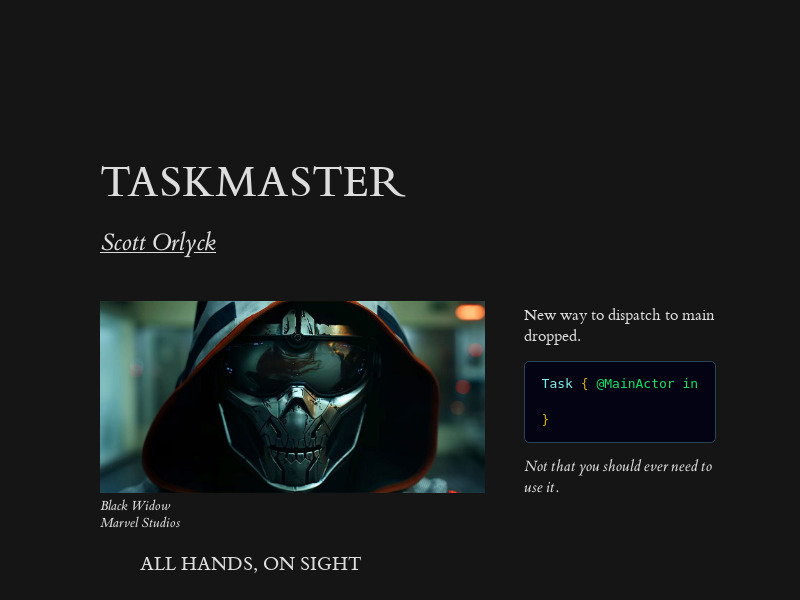
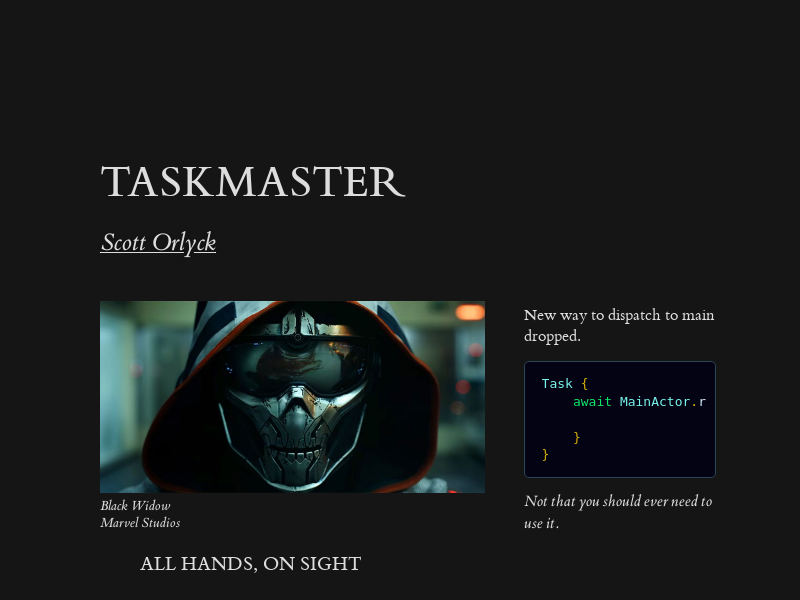
Render and commit.

Changed region(s): [[0.6562, 0.72, 0.9062, 0.84], [0.7188, 0.63, 0.875, 0.69], [0.6562, 0.87, 0.6875, 0.9]]

diff --git a/docs/assets/index.b061f167.css b/docs/assets/index.b061f167.css
@@ -1,0 +1,1 @@
+@font-face{font-display:swap;font-family:BemboBook;font-style:normal;font-weight:400;src:url(/taskmaster/bembo/BemboBook/font.woff2)}@font-face{font-display:swap;font-family:BemboBook;font-style:italic;font-weight:400;src:url(/taskmaster/bembo/BemboBookItalic/font.woff2)}@font-face{font-display:swap;font-family:BemboBook;font-style:normal;font-weight:700;src:url(/taskmaster/bembo/BemboBookBold/font.woff2)}@font-face{font-display:swap;font-family:BemboBookOsF;font-style:normal;font-weight:400;src:url(/taskmaster/bembo/BemboBookItalicOsF/font.woff2)}html{font-size:15px}body{background-color:#fffff8;color:#111;counter-reset:sidenote-counter;font-family:BemboBook,Palatino,Palatino Linotype,Palatino LT STD,Book Antiqua,Georgia,serif;margin-left:auto;margin-right:auto;max-width:1400px;padding-left:12.5%;width:87.5%}@media (color-index:48){body{background-color:#151515;color:#ddd}}@media (color:48842621){body{background-color:#151515;color:#ddd}}@media (prefers-color-scheme:dark){body{background-color:#151515;color:#ddd}}h1{font-size:3.2rem;font-weight:400;line-height:1;margin-bottom:1.5rem;margin-top:4rem}h2{font-size:2.2rem;margin-top:2.1rem}h2,h3{font-style:italic;font-weight:400;line-height:1;margin-bottom:1.4rem}h3{font-size:1.7rem;margin-top:2rem}hr{border:0;border-top:1px solid #ccc;display:block;height:1px;margin:1em 0;padding:0;width:55%}p.subtitle{display:block;font-size:1.8rem;font-style:italic;line-height:1;margin-bottom:1rem;margin-top:1rem}.numeral{font-family:BemboBookOsF}.danger{color:red}article{padding:5rem 0}section{padding-bottom:1rem;padding-top:1rem}dl,ol,p,ul{font-size:1.4rem;line-height:2rem}p{margin-bottom:1.4rem;margin-top:1.4rem;padding-right:0;vertical-align:baseline}div.epigraph{margin:5em 0}div.epigraph>blockquote{margin-bottom:3em;margin-top:3em}div.epigraph>blockquote,div.epigraph>blockquote>p{font-style:italic}div.epigraph>blockquote>footer{font-style:normal}div.epigraph>blockquote>footer>cite{font-style:italic}blockquote{font-size:1.4rem}blockquote p{margin-right:40px;width:55%}blockquote footer{font-size:1.1rem;text-align:right;width:55%}section>footer,section>p,section>table{width:55%}section>dl,section>ol,section>ul{-webkit-padding-start:5%;width:50%}dt:not(:first-child),li:not(:first-child){margin-top:.25rem}figure{-webkit-margin-start:0;-webkit-margin-end:0;border:0;font-size:100%;font:inherit;margin:0 0 3em;max-width:55%;padding:0}figcaption,figure{vertical-align:baseline}figcaption{clear:right;float:right;font-size:1.1rem;line-height:1.6;margin-bottom:0;margin-top:0;max-width:40%;position:relative}figure.fullwidth figcaption{margin-right:24%}a:link,a:visited{color:inherit}.no-tufte-underline:link{background:transparent none repeat 0 0/auto auto padding-box border-box scroll;background:initial;text-shadow:inherit}.hover-tufte-underline:hover,.tufte-underline,a:link{background:linear-gradient(#fffff8,#fffff8),linear-gradient(#fffff8,#fffff8),linear-gradient(currentColor,currentColor);background-position:0 93%,100% 93%,0 93%;background-repeat:no-repeat,no-repeat,repeat-x;background-size:.05em 1px,.05em 1px,1px 1px;text-decoration:none;text-shadow:.03em 0 #fffff8,-.03em 0 #fffff8,0 .03em #fffff8,0 -.03em #fffff8,.06em 0 #fffff8,-.06em 0 #fffff8,.09em 0 #fffff8,-.09em 0 #fffff8,.12em 0 #fffff8,-.12em 0 #fffff8,.15em 0 #fffff8,-.15em 0 #fffff8}@media screen and (-webkit-min-device-pixel-ratio:0){.hover-tufte-underline:hover,.tufte-underline,a:link{background-position-y:87%,87%,87%}}@media (color-index:48){.hover-tufte-underline:hover,.tufte-underline,a:link{text-shadow:.03em 0 #151515,-.03em 0 #151515,0 .03em #151515,0 -.03em #151515,.06em 0 #151515,-.06em 0 #151515,.09em 0 #151515,-.09em 0 #151515,.12em 0 #151515,-.12em 0 #151515,.15em 0 #151515,-.15em 0 #151515}}@media (color:48842621){.hover-tufte-underline:hover,.tufte-underline,a:link{text-shadow:.03em 0 #151515,-.03em 0 #151515,0 .03em #151515,0 -.03em #151515,.06em 0 #151515,-.06em 0 #151515,.09em 0 #151515,-.09em 0 #151515,.12em 0 #151515,-.12em 0 #151515,.15em 0 #151515,-.15em 0 #151515}}@media (prefers-color-scheme:dark){.hover-tufte-underline:hover,.tufte-underline,a:link{text-shadow:.03em 0 #151515,-.03em 0 #151515,0 .03em #151515,0 -.03em #151515,.06em 0 #151515,-.06em 0 #151515,.09em 0 #151515,-.09em 0 #151515,.12em 0 #151515,-.12em 0 #151515,.15em 0 #151515,-.15em 0 #151515}}a:link::-moz-selection{background:#b4d5fe;text-shadow:.03em 0 #b4d5fe,-.03em 0 #b4d5fe,0 .03em #b4d5fe,0 -.03em #b4d5fe,.06em 0 #b4d5fe,-.06em 0 #b4d5fe,.09em 0 #b4d5fe,-.09em 0 #b4d5fe,.12em 0 #b4d5fe,-.12em 0 #b4d5fe,.15em 0 #b4d5fe,-.15em 0 #b4d5fe}a:link::-moz-selection,a:link::selection{background:#b4d5fe;text-shadow:.03em 0 #b4d5fe,-.03em 0 #b4d5fe,0 .03em #b4d5fe,0 -.03em #b4d5fe,.06em 0 #b4d5fe,-.06em 0 #b4d5fe,.09em 0 #b4d5fe,-.09em 0 #b4d5fe,.12em 0 #b4d5fe,-.12em 0 #b4d5fe,.15em 0 #b4d5fe,-.15em 0 #b4d5fe}img{max-width:100%}.marginnote,.sidenote{clear:right;float:right;font-size:1.1rem;line-height:1.3;margin-bottom:0;margin-right:-60%;margin-top:.3rem;position:relative;vertical-align:baseline;width:50%}.sidenote-number{counter-increment:sidenote-counter}.sidenote-number:after,.sidenote:before{font-family:BemboBookOsF;position:relative;vertical-align:baseline}.sidenote-number:after{content:counter(sidenote-counter);font-size:1rem;left:.1rem;top:-.5rem}.sidenote:before{content:counter(sidenote-counter) " ";font-size:1rem;top:-.5rem}blockquote .marginnote,blockquote .sidenote{margin-right:-82%;min-width:59%;text-align:left}div.fullwidth,table.fullwidth{width:100%}div.table-wrapper{font-family:Trebuchet MS,Gill Sans,Gill Sans MT,sans-serif;overflow-x:auto}.sans{font-family:Gill Sans,Gill Sans MT,Calibri,sans-serif;letter-spacing:.03em}code,pre>code{-webkit-text-size-adjust:100%;font-family:Consolas,Liberation Mono,Menlo,Courier,monospace;font-size:1rem;line-height:1.42}.sans>code{font-size:1.2rem}h1>code,h2>code,h3>code{font-size:.8em}.marginnote>code,.sidenote>code{font-size:1rem}pre>code{display:block;font-size:.9rem;margin-left:2.5%;overflow-x:auto;width:52.5%}pre.fullwidth>code{width:90%}.fullwidth{clear:both;max-width:90%}span.newthought{-webkit-font-feature-settings:"smcp";font-feature-settings:"smcp";font-size:1.2em;font-variant:small-caps}input.margin-toggle{display:none}label.sidenote-number{display:inline-block;max-height:2rem}label.margin-toggle:not(.sidenote-number){display:none}.iframe-wrapper{height:0;padding-bottom:56.25%;padding-top:25px;position:relative}.iframe-wrapper iframe{height:100%;left:0;position:absolute;top:0;width:100%}@media (max-width:760px){body{padding-left:8%;padding-right:8%;width:84%}hr,section>footer,section>p,section>table{width:100%}pre>code{width:97%}section>dl,section>ol,section>ul{width:90%}figure{max-width:90%}figcaption,figure.fullwidth figcaption{margin-right:0;max-width:none}blockquote{margin-left:1.5em;margin-right:0}blockquote footer,blockquote p{width:100%}label.margin-toggle:not(.sidenote-number){display:inline}.marginnote,.sidenote{display:none}.margin-toggle:checked+.marginnote,.margin-toggle:checked+.sidenote{clear:both;display:block;float:left;left:1rem;margin:1rem 2.5%;position:relative;vertical-align:baseline;width:95%}label{cursor:pointer}div.table-wrapper,table{width:85%}img{width:100%}}pre[data-line]{padding:1em 0 1em 3em;position:relative}.line-highlight{background:hsla(24,20%,50%,.08);background:linear-gradient(90deg,hsla(24,20%,50%,.1) 70%,hsla(24,20%,50%,0));left:0;line-height:inherit;margin-top:1em;padding-bottom:inherit;padding-left:0;padding-right:0;padding-top:inherit;pointer-events:none;position:absolute;right:0;white-space:pre}@media print{.line-highlight{color-adjust:exact;-webkit-print-color-adjust:exact}}.line-highlight:before,.line-highlight[data-end]:after{background-color:#997a6666;border-radius:999px;box-shadow:0 1px #fff;color:#f5f2f0;content:attr(data-start);font:700 65%/1.5 sans-serif;left:.6em;min-width:1em;padding:0 .5em;position:absolute;text-align:center;text-shadow:none;top:.4em;vertical-align:.3em}.line-highlight[data-end]:after{bottom:.4em;content:attr(data-end);top:auto}.line-numbers .line-highlight:after,.line-numbers .line-highlight:before{content:none}pre[id].linkable-line-numbers span.line-numbers-rows{pointer-events:all}pre[id].linkable-line-numbers span.line-numbers-rows>span:before{cursor:pointer}pre[id].linkable-line-numbers span.line-numbers-rows>span:hover:before{background-color:#80808033}@media screen{code[class*=language-],pre[class*=language-]{background:#faf8f5;color:#728fcb;direction:ltr;font-family:Consolas,Menlo,Monaco,Andale Mono WT,Andale Mono,Lucida Console,Lucida Sans Typewriter,DejaVu Sans Mono,Bitstream Vera Sans Mono,Liberation Mono,Nimbus Mono L,Courier New,Courier,monospace;font-size:13px;-webkit-hyphens:none;-ms-hyphens:none;hyphens:none;line-height:1.375;-moz-tab-size:4;-o-tab-size:4;tab-size:4;text-align:left;white-space:pre;word-break:normal;word-spacing:normal}code[class*=language-] ::-moz-selection,code[class*=language-]::-moz-selection,pre[class*=language-] ::-moz-selection,pre[class*=language-]::-moz-selection{background:#faf8f5;text-shadow:none}code[class*=language-] ::selection,code[class*=language-]::selection,pre[class*=language-] ::selection,pre[class*=language-]::selection{background:#faf8f5;text-shadow:none}pre[class*=language-]{margin:.5em 0;overflow:auto;padding:1em}:not(pre)>code[class*=language-]{border-radius:.3em;padding:.1em}.token.cdata,.token.comment,.token.doctype,.token.prolog,.token.punctuation{color:#b6ad9a}.token.namespace{opacity:.7}.token.number,.token.operator,.token.tag{color:#063289}.token.function,.token.property{color:#b29762}.token.atrule-id,.token.selector,.token.tag-id{color:#2d2006}.token.attr-name,code.language-javascript{color:#896724}.language-css .token.string,.language-scss .token.string,.style .token.string,.token.atrule,.token.attr-value,.token.boolean,.token.control,.token.directive,.token.entity,.token.keyword,.token.regex,.token.statement,.token.string,.token.unit,.token.url,code.language-css,code.language-scss{color:#728fcb}.token.placeholder,.token.variable{color:#93abdc}.token.deleted{text-decoration:line-through}.token.inserted{border-bottom:1px dotted #2d2006;text-decoration:none}.token.italic{font-style:italic}.token.bold,.token.important{font-weight:700}.token.important{color:#896724}.token.entity{cursor:help}pre>code.highlight{outline:.4em solid #896724;outline-offset:.4em}.line-numbers.line-numbers .line-numbers-rows{border-right-color:#ece8de}.line-numbers .line-numbers-rows>span:before{color:#cdc4b1}.line-highlight.line-highlight{background:rgba(45,32,6,.2);background:linear-gradient(90deg,rgba(45,32,6,.2) 70%,rgba(45,32,6,0))}}@media screen and (color-index:48){code[class*=language-],pre[class*=language-]{background:#030314;color:#d6e7ff;direction:ltr;font-family:Consolas,Menlo,Monaco,Andale Mono WT,Andale Mono,Lucida Console,Lucida Sans Typewriter,DejaVu Sans Mono,Bitstream Vera Sans Mono,Liberation Mono,Nimbus Mono L,Courier New,Courier,monospace;font-size:13px;-webkit-hyphens:none;-ms-hyphens:none;hyphens:none;line-height:1.375;-moz-tab-size:4;-o-tab-size:4;tab-size:4;text-align:left;white-space:pre;word-break:normal;word-spacing:normal}code[class*=language-] ::-moz-selection,code[class*=language-]::-moz-selection,pre[class*=language-] ::-moz-selection,pre[class*=language-]::-moz-selection{background:#1d3b54;color:inherit;text-shadow:none}code[class*=language-] ::-moz-selection,code[class*=language-] ::selection,code[class*=language-]::-moz-selection,code[class*=language-]::selection,pre[class*=language-] ::-moz-selection,pre[class*=language-] ::selection,pre[class*=language-]::-moz-selection,pre[class*=language-]::selection{background:#1d3b54;color:inherit;text-shadow:none}pre[class*=language-]{border:1px solid #2a4555;border-radius:5px;margin:1em 0;overflow:auto}:not(pre)>code[class*=language-]{background:#2a4555;border-radius:.2em;-webkit-box-decoration-break:clone;box-decoration-break:clone;color:#f0f6f6;padding:.2em .3em}.token.cdata,.token.comment,.token.doctype,.token.prolog{color:#446e69}.token.punctuation{color:#d6b007}.token.boolean,.token.constant,.token.deleted,.token.number,.token.property,.token.symbol,.token.tag{color:#d6e7ff}.token.attr-name,.token.builtin,.token.inserted,.token.selector{color:#e60067}.token.char,.token.string{color:#49c6ec}.language-css .token.string,.style .token.string,.token.entity,.token.operator,.token.url{background:transparent;color:#ec8e01}.token.atrule,.token.attr-value,.token.keyword{color:#0fe468}.token.class-name,.token.function{color:#78f3e9}.token.important,.token.regex,.token.variable{color:#d6e7ff}}@media screen and (color:48842621){code[class*=language-],pre[class*=language-]{background:#030314;color:#d6e7ff;direction:ltr;font-family:Consolas,Menlo,Monaco,Andale Mono WT,Andale Mono,Lucida Console,Lucida Sans Typewriter,DejaVu Sans Mono,Bitstream Vera Sans Mono,Liberation Mono,Nimbus Mono L,Courier New,Courier,monospace;font-size:13px;-webkit-hyphens:none;-ms-hyphens:none;hyphens:none;line-height:1.375;-moz-tab-size:4;-o-tab-size:4;tab-size:4;text-align:left;white-space:pre;word-break:normal;word-spacing:normal}code[class*=language-] ::-moz-selection,code[class*=language-]::-moz-selection,pre[class*=language-] ::-moz-selection,pre[class*=language-]::-moz-selection{background:#1d3b54;color:inherit;text-shadow:none}code[class*=language-] ::-moz-selection,code[class*=language-] ::selection,code[class*=language-]::-moz-selection,code[class*=language-]::selection,pre[class*=language-] ::-moz-selection,pre[class*=language-] ::selection,pre[class*=language-]::-moz-selection,pre[class*=language-]::selection{background:#1d3b54;color:inherit;text-shadow:none}pre[class*=language-]{border:1px solid #2a4555;border-radius:5px;margin:1em 0;overflow:auto}:not(pre)>code[class*=language-]{background:#2a4555;border-radius:.2em;-webkit-box-decoration-break:clone;box-decoration-break:clone;color:#f0f6f6;padding:.2em .3em}.token.cdata,.token.comment,.token.doctype,.token.prolog{color:#446e69}.token.punctuation{color:#d6b007}.token.boolean,.token.constant,.token.deleted,.token.number,.token.property,.token.symbol,.token.tag{color:#d6e7ff}.token.attr-name,.token.builtin,.token.inserted,.token.selector{color:#e60067}.token.char,.token.string{color:#49c6ec}.language-css .token.string,.style .token.string,.token.entity,.token.operator,.token.url{background:transparent;color:#ec8e01}.token.atrule,.token.attr-value,.token.keyword{color:#0fe468}.token.class-name,.token.function{color:#78f3e9}.token.important,.token.regex,.token.variable{color:#d6e7ff}}@media screen and (prefers-color-scheme:dark){code[class*=language-],pre[class*=language-]{background:#030314;color:#d6e7ff;direction:ltr;font-family:Consolas,Menlo,Monaco,Andale Mono WT,Andale Mono,Lucida Console,Lucida Sans Typewriter,DejaVu Sans Mono,Bitstream Vera Sans Mono,Liberation Mono,Nimbus Mono L,Courier New,Courier,monospace;font-size:13px;-webkit-hyphens:none;-ms-hyphens:none;hyphens:none;line-height:1.375;-moz-tab-size:4;-o-tab-size:4;tab-size:4;text-align:left;white-space:pre;word-break:normal;word-spacing:normal}code[class*=language-] ::-moz-selection,code[class*=language-]::-moz-selection,pre[class*=language-] ::-moz-selection,pre[class*=language-]::-moz-selection{background:#1d3b54;color:inherit;text-shadow:none}code[class*=language-] ::-moz-selection,code[class*=language-] ::selection,code[class*=language-]::-moz-selection,code[class*=language-]::selection,pre[class*=language-] ::-moz-selection,pre[class*=language-] ::selection,pre[class*=language-]::-moz-selection,pre[class*=language-]::selection{background:#1d3b54;color:inherit;text-shadow:none}pre[class*=language-]{border:1px solid #2a4555;border-radius:5px;margin:1em 0;overflow:auto}:not(pre)>code[class*=language-]{background:#2a4555;border-radius:.2em;-webkit-box-decoration-break:clone;box-decoration-break:clone;color:#f0f6f6;padding:.2em .3em}.token.cdata,.token.comment,.token.doctype,.token.prolog{color:#446e69}.token.punctuation{color:#d6b007}.token.boolean,.token.constant,.token.deleted,.token.number,.token.property,.token.symbol,.token.tag{color:#d6e7ff}.token.attr-name,.token.builtin,.token.inserted,.token.selector{color:#e60067}.token.char,.token.string{color:#49c6ec}.language-css .token.string,.style .token.string,.token.entity,.token.operator,.token.url{background:transparent;color:#ec8e01}.token.atrule,.token.attr-value,.token.keyword{color:#0fe468}.token.class-name,.token.function{color:#78f3e9}.token.important,.token.regex,.token.variable{color:#d6e7ff}}.code{width:100%}pre[class*=language-]{overflow:hidden}.line-highlight:before,.line-highlight[data-end]:after{box-shadow:none}.small{font-size:.875rem;line-height:1.25rem}@media (max-width:760px){.small{width:100%}}@media (color-index:70){.line-highlight.line-highlight{background:rgba(45,32,6,.2);background:linear-gradient(90deg,rgba(45,32,6,.05) 70%,rgba(45,32,6,0))}}@media (color:70318723){.line-highlight.line-highlight{background:rgba(45,32,6,.2);background:linear-gradient(90deg,rgba(45,32,6,.05) 70%,rgba(45,32,6,0))}}@media (prefers-color-scheme:light){.line-highlight.line-highlight{background:rgba(45,32,6,.2);background:linear-gradient(90deg,rgba(45,32,6,.05) 70%,rgba(45,32,6,0))}}

diff --git a/docs/index.html b/docs/index.html
@@ -2,13 +2,14 @@
         <meta name="viewport" content="width=device-width,initial-scale=1">
         <meta charset="utf-8">
       
-      
-      <link rel="stylesheet" href="/taskmaster/assets/index.3020368f.css">
+      <link rel="stylesheet" href="/taskmaster/assets/index.b061f167.css">
     <link rel="icon" type="image/x-icon" href="https://raw.githubusercontent.com/scottorly/scottorly.github.io/main/fav.png"><meta name="Description" content="iOS UI programming with Swift Concurrency."><meta name="twitter:title" content="TASKMASTER"><meta name="twitter:description" content="iOS UI programming with Swift Concurrency."><meta name="twitter:image" content="https://github.com/scottorly/taskmaster/raw/main/thumbnail.png"><meta name="twitter:card" content="summary_large_image"><meta name="twitter:site" content="https://scottorly.github.io/taskmaster"><meta name="twitter:creator" content="@orlyck"><meta property="og:url" content="https://scottorly.github.io/taskmaster"><meta property="og:title" content="TASKMASTER"><meta property="og:description" content="iOS UI programming with Swift Concurrency."><meta property="og:image" content="https://github.com/scottorly/taskmaster/raw/main/thumbnail.png"><meta property="og:image:secure" content="https://github.com/scottorly/taskmaster/raw/main/thumbnail.png"></head>
     
 <body>
-<article><section><h1>TASKMASTER</h1><p class="subtitle"><a href="https://scottorly.github.io">Scott Orlyck</a></p></section><section><figure><label for="1" class="margin-toggle">⊕</label><input type="checkbox" id="1" class="margin-toggle"><span class="marginnote">New way to dispatch to main dropped.<br><pre class="language-swift" tabindex="0"><code class="code language-swift"><span class="token class-name">Task</span> <span class="token punctuation">{</span> <span class="token attribute atrule">@MainActor</span> <span class="token keyword">in</span>
-
+<article><section><h1>TASKMASTER</h1><p class="subtitle"><a href="https://scottorly.github.io">Scott Orlyck</a></p></section><section><figure><label for="1" class="margin-toggle">⊕</label><input type="checkbox" id="1" class="margin-toggle"><span class="marginnote">New way to dispatch to main dropped.<br><pre class="language-swift" tabindex="0"><code class="code language-swift"><span class="token class-name">Task</span> <span class="token punctuation">{</span>
+    <span class="token keyword">await</span> <span class="token class-name">MainActor</span><span class="token punctuation">.</span>run <span class="token punctuation">{</span>
+    
+    <span class="token punctuation">}</span>
 <span class="token punctuation">}</span>
 </code></pre><em>Not that you should ever need to use it.</em></span><img src="/taskmaster/assets/taskmaster.e748c7ff.jpg" alt="Taskmaster in Marvel's Black Widow. (Marvel Studios)"><em>Black Widow<br>Marvel Studios</em><blockquote>ALL HANDS, ON SIGHT</blockquote></figure></section><section><p><span class="newthought"><a target="_blank" rel="noreferrer noopener" href="https://scottorly.github.io/drive">First</a> I demonstrated some practical</span> RxSwift and UIKit UI programming techniques. <a target="_blank" rel="noreferrer noopener" href="https://scottorly.github.io/drive2combine">Next</a> I showed you how to do the same thing using Swift's Combine reactive framework and UIKit.</p><p>Now for something slightly different. Swift's new concurrency language features potentially offer the ability to design clean, minimalist architectures without the burdensome complexity of reactive programming language extensions because while Rx is absurdly powerful, it is not for everyone.</p><p>Since the earliest days of iOS development, dealing with asynchronous operations was cumbersome and limited by the ancient ways of Objective-C, the target-action/delegate pattern, Model-View-Controller, and the fact that UI update operations are required to use the main thread.</p><p>In an effort to avoid getting Italian food<label for="1a" class="margin-toggle sidenote-number"></label><input type="checkbox" id="1a" class="margin-toggle"><span class="sidenote">Spaghetti code is little or no seperation of concerns.</span> all over the walls, alternative architectures for iOS proliferated like memory leaks.</p><p>Of course, some took it too far and the result is over-cooked lasagna.<label for="2a" class="margin-toggle sidenote-number"></label><input type="checkbox" id="2a" class="margin-toggle"><span class="sidenote">The opposite of spaghetti is excessive seperation of concerns.</span> I think the most peculiar MVC avoidance I have encountered was a Promise based Model-View-Presenter pattern in a misguided attempt to mimic the architectures of Javascript web applications in Objective-C. Whatever the case, I think everyone can agree that anything is better than the commonly encountered anti-pattern of relying on NotificationCenter to broadcast the results of asynchronous operations.</p></section><section><h2>SWIFT CONCURRENCY</h2><p><label for="2" class="margin-toggle">⊕</label><input type="checkbox" id="2" class="margin-toggle"><span class="marginnote">XCode Playground file with working example available <a target="_blank" rel="noreferrer noopener" href="https://github.com/scottorly/taskmaster/tree/main/TASKMASTER.playground">here</a>.</span>The new concurrency language features in Swift are <em>extensive</em> and the selection of tools is overwhelming at first but learn a select few and before you know it you'll be writing functions so linear they'll only look synchronous.</p><p>There are 4 specific Swift language features or standard library additions that are going to provide the flexibilty for a clean, linear architecture: <a target="_blank" rel="noreferrer noopener" href="https://docs.swift.org/swift-book/LanguageGuide/Concurrency.htm">asynchronous functions</a>, <a target="_blank" rel="noreferrer noopener" href="https://developer.apple.com/documentation/swift/result"><code>Result</code></a>, <a target="_blank" rel="noreferrer noopener" href="https://developer.apple.com/documentation/swift/task"><code>Task</code></a>, &amp; Actors<label for="3a" class="margin-toggle sidenote-number"></label><input type="checkbox" id="3a" class="margin-toggle"><span class="sidenote">Specifically the <a target="_blank" rel="noreferrer noopener" href="https://developer.apple.com/documentation/swift/mainactor"><code>MainActor</code></a> and the <code>@MainActor</code> attribute.</span>. What I like about this approach is that in addition to the simplicity of asynchronous functions and actors it doesn't require any external dependencies.</p><p><label for="3" class="margin-toggle">⊕</label><input type="checkbox" id="3" class="margin-toggle"><span class="marginnote">A simple mock Network service definition with an asynchronous method that returns a <code>Result</code> type wrapping an error or success case in an associated value.</span></p><figure class="small"><pre data-line="" class="language-swift" tabindex="0"><code class="code language-swift"><span class="token keyword">import</span> <span class="token class-name">UIKit</span>
 
